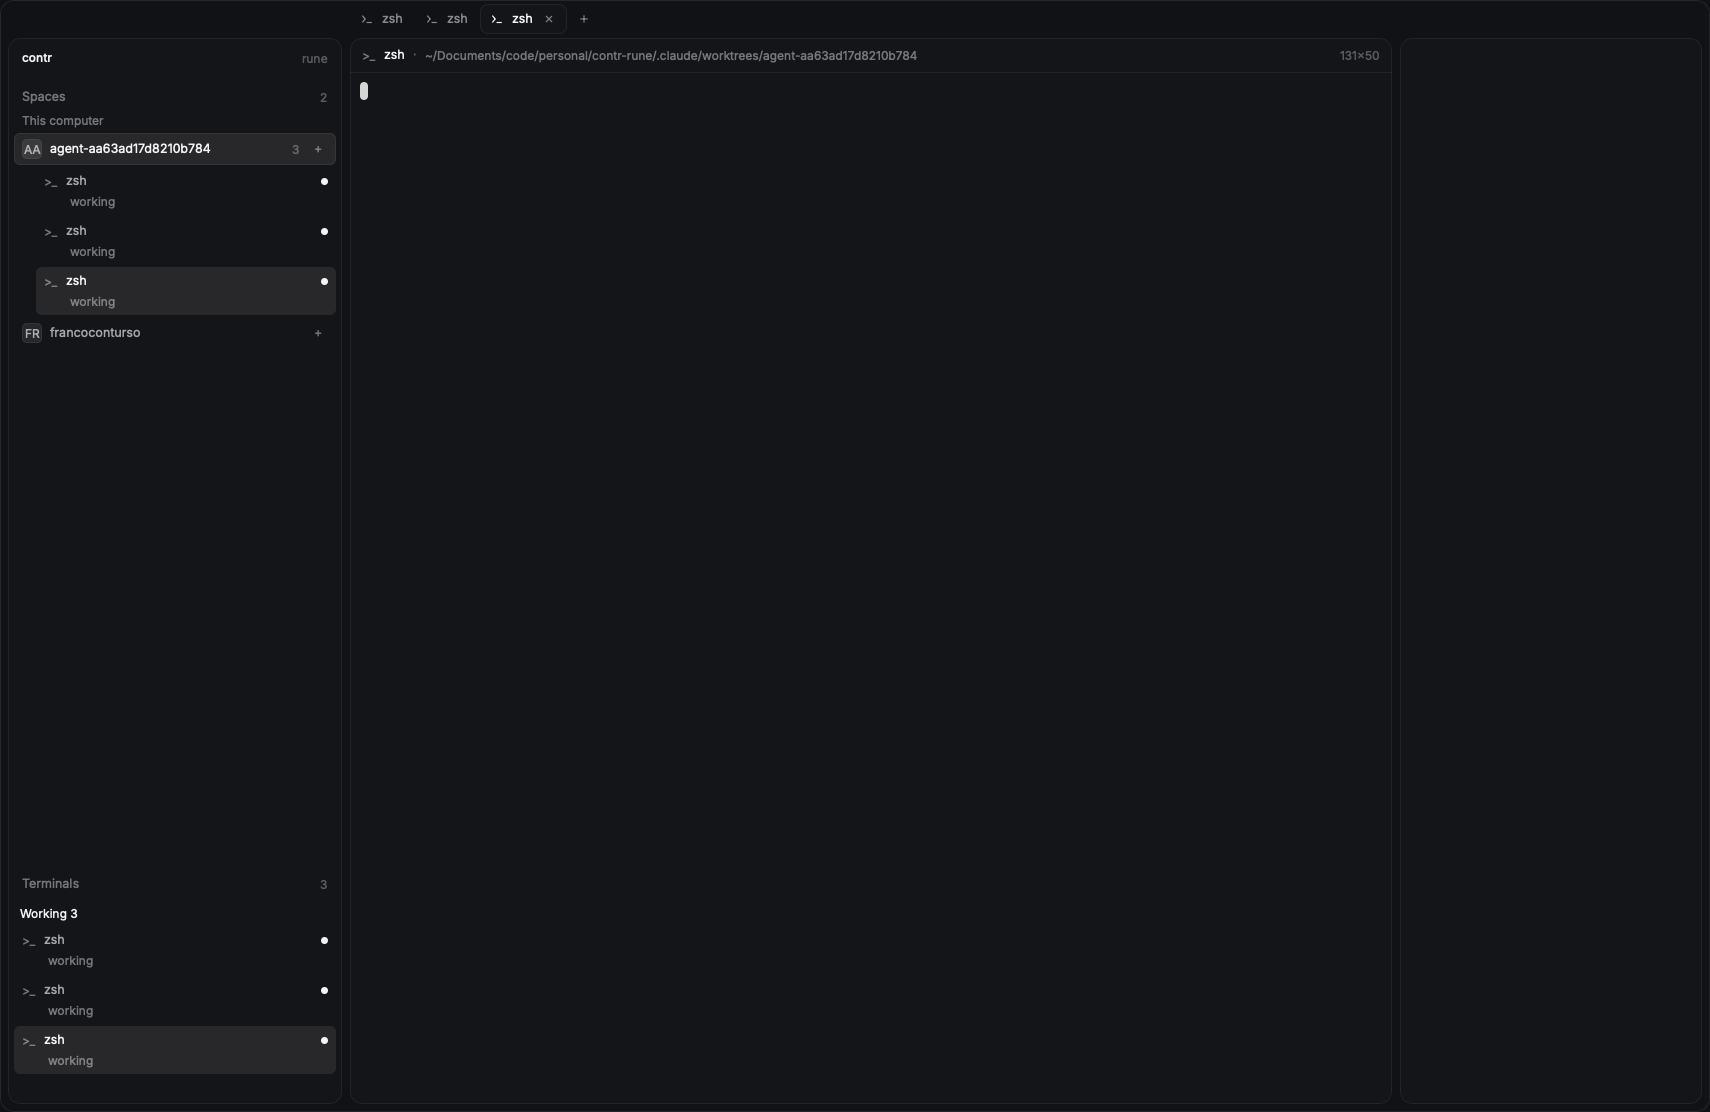
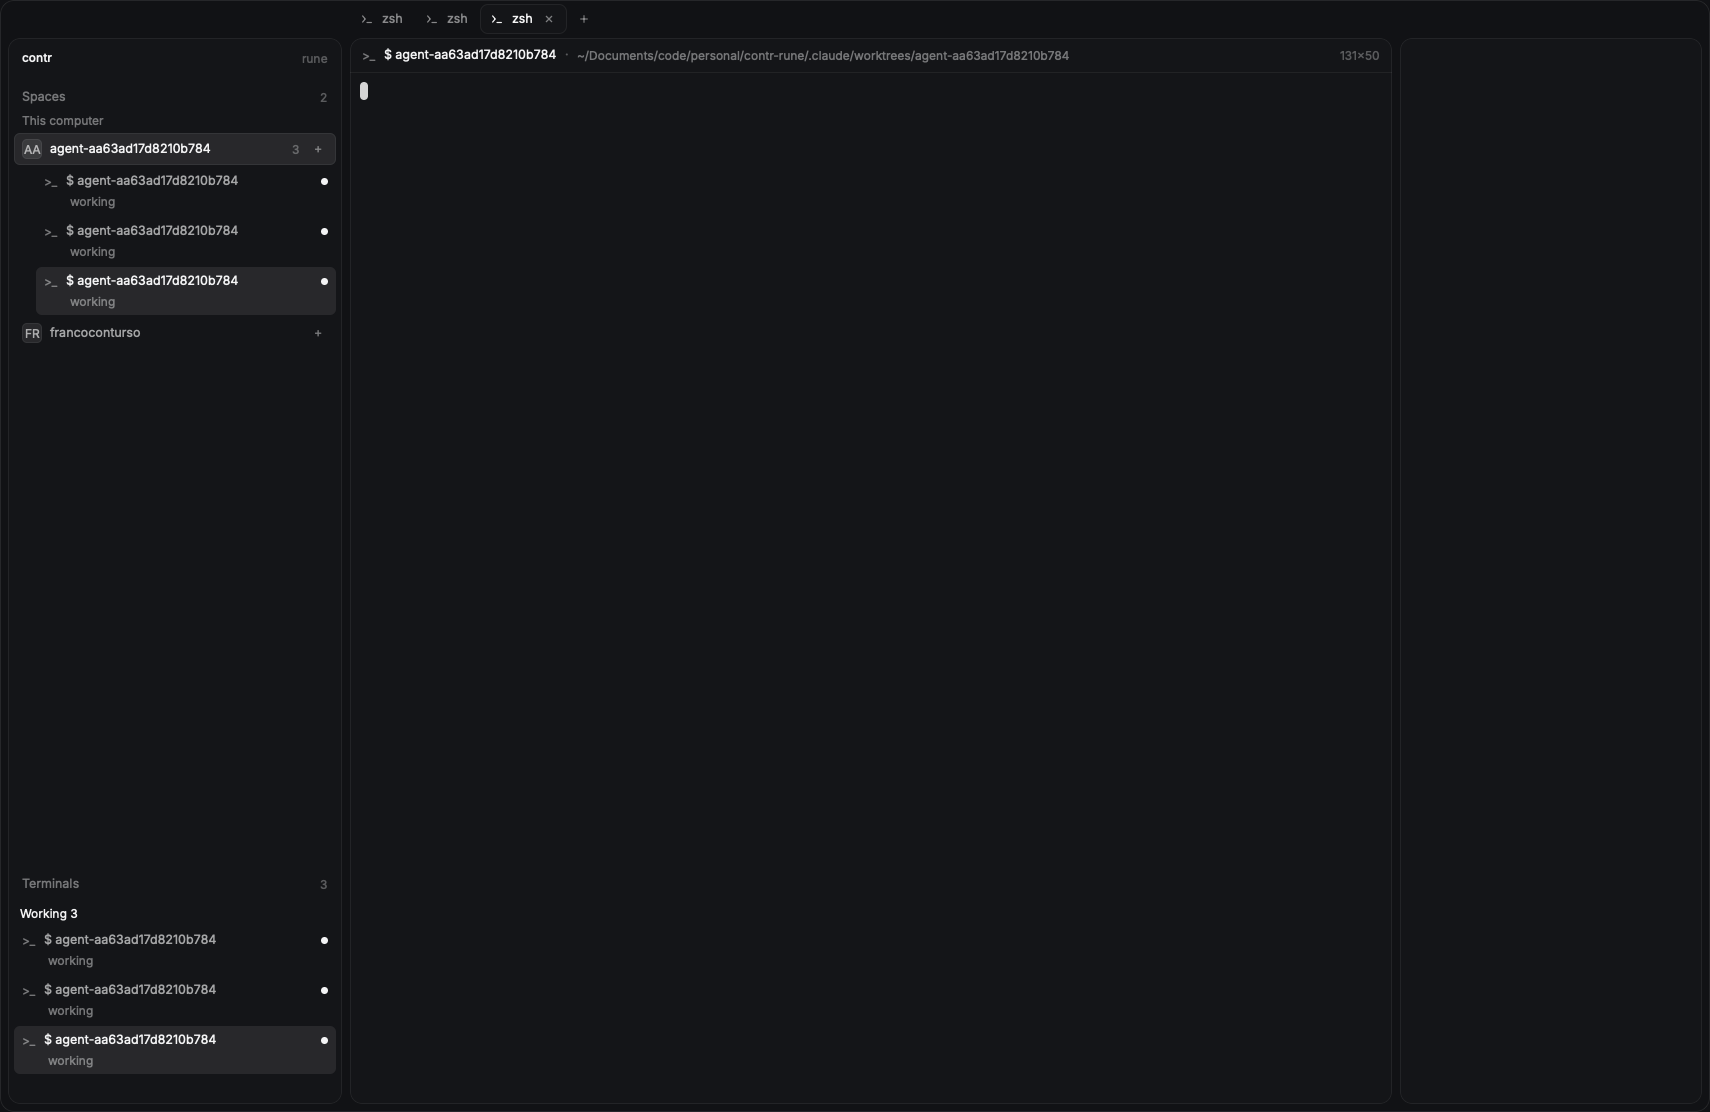
Part 2 fixes: selected-only close, tab label split from sidebar, more tests

diff --git a/tests/tabs.rs b/tests/tabs.rs
@@ -95,11 +95,58 @@ fn plus_opens_a_tab() {
 }
 
 #[test]
-fn hover_shows_close_on_an_unselected_tab() {
+fn hover_does_not_move_tabs_or_show_close() {
+    let before = run("hover-before", r#"[{"t": 0.5, "type": "mark", "name": "idle"}]"#);
     let els = run("hover", r#"[{"t": 0.5, "type": "move", "key": "tab-0"}]"#);
-    assert!(find(&els, "tab-0-close").is_some(), "hovered tab shows its close box");
-    assert!(find(&els, "tab-1-close").is_none());
-    assert!(find(&els, "tab-2-close").is_some(), "selected tab keeps it");
+    assert!(find(&els, "tab-0-close").is_none(), "only the selected tab has a close box");
+    assert!(find(&els, "tab-2-close").is_some());
+    for k in ["tab-0", "tab-1", "tab-2", "tab-new"] {
+        assert_eq!(rect(&els, k), rect(&before, k), "{k} does not move on hover");
+    }
+}
+
+#[test]
+fn selected_tab_has_the_panel_fill_and_line() {
+    let els = run("fill", r#"[{"t": 0.5, "type": "mark", "name": "idle"}]"#);
+    // `panel` is rgba(20,21,24,.85).
+    assert_eq!(find(&els, "tab-2").unwrap()["fill"], "#141518d9");
+    assert_eq!(find(&els, "tab-0").unwrap()["fill"], "#00000000", "unselected tab has no fill");
+    assert_eq!(find(&els, "tab-1").unwrap()["fill"], "#00000000");
+}
+
+/// The tree has no borders, so read the snapshot: the selected tab's top edge row (1 px
+/// `panel-line`, white at 6.5%) is brighter than the fill just inside it.
+#[test]
+fn selected_tab_has_the_inset_line() {
+    let dir = std::env::temp_dir().join(format!("contr-tabs-snap-{}", std::process::id()));
+    std::fs::create_dir_all(&dir).unwrap();
+    let (snap, tree) = (dir.join("snap.png"), dir.join("tree.json"));
+    let out = Command::new(env!("CARGO_BIN_EXE_contr-rune"))
+        .args(["--size", "1710x1112", "--scale", "1", "--scene", "three-tabs", "--at", "1", "--snap"])
+        .arg(&snap)
+        .arg("--tree")
+        .arg(&tree)
+        .env("CONTR_PROJECTS", std::env::temp_dir())
+        .output()
+        .unwrap();
+    assert!(out.status.success(), "{}", String::from_utf8_lossy(&out.stderr));
+    let t: Value = serde_json::from_str(&std::fs::read_to_string(&tree).unwrap()).unwrap();
+    let els = t["elements"].as_array().unwrap().clone();
+    let r = rect(&els, "tab-2");
+    let decoder = png::Decoder::new(std::fs::File::open(&snap).unwrap());
+    let mut reader = decoder.read_info().unwrap();
+    let mut buf = vec![0; reader.output_buffer_size()];
+    let info = reader.next_frame(&mut buf).unwrap();
+    let ch = info.color_type.samples();
+    // A column in the tab's right padding, clear of text and icons.
+    let x = (r[0] + r[2] - 24.0) as usize;
+    let lum = |y: usize| {
+        let i = (y * info.width as usize + x) * ch;
+        buf[i] as u32 + buf[i + 1] as u32 + buf[i + 2] as u32
+    };
+    let (edge, inside) = (lum(r[1] as usize), lum(r[1] as usize + 3));
+    std::fs::remove_dir_all(&dir).unwrap();
+    assert!(edge > inside + 15, "top edge {edge} should be brighter than the fill {inside}");
 }
 
 #[test]
@@ -119,6 +166,22 @@ fn ctrl_tab_cycles_tabs() {
     assert_eq!(selected_tab(&els), 0, "from the last tab, Ctrl+Tab wraps to the first");
     let els = run("cycle-back", r#"[{"t": 0.5, "type": "key", "name": "Tab", "ctrl": true, "shift": true}]"#);
     assert_eq!(selected_tab(&els), 1);
+}
+
+#[test]
+fn ctrl_page_keys_cycle_tabs() {
+    // The scene ends on the last tab: PageDown wraps to the first, PageUp goes back one.
+    let els = run("pgdn", r#"[{"t": 0.5, "type": "key", "name": "PageDown", "ctrl": true}]"#);
+    assert_eq!(selected_tab(&els), 0);
+    let els = run("pgup", r#"[{"t": 0.5, "type": "key", "name": "PageUp", "ctrl": true}]"#);
+    assert_eq!(selected_tab(&els), 1);
+    let els = run(
+        "pgdn-pgup",
+        r#"[{"t": 0.5, "type": "key", "name": "PageDown", "ctrl": true},
+            {"t": 1.0, "type": "key", "name": "PageDown", "ctrl": true},
+            {"t": 1.5, "type": "key", "name": "PageUp", "ctrl": true}]"#,
+    );
+    assert_eq!(selected_tab(&els), 0, "0 -> 1 -> 0");
 }
 
 #[test]

diff --git a/src/session.rs b/src/session.rs
@@ -165,28 +165,55 @@ impl Session {
         self.dirty.store(true, Ordering::Release);
     }
 
-    /// The tab label: the shell's OSC title, else the shell's name ("zsh").
+    /// The tab label: the program's title (shell OSC title), else the shell's name ("zsh").
+    pub fn tab_label(&self) -> String {
+        label_from(self.title.lock().unwrap().as_deref(), shell_name())
+    }
+
+    /// The sidebar and terminal-header label: the shell's OSC title, else `$ <folder>`. Parts 3
+    /// and 5 replace it.
     pub fn label(&self) -> String {
-        label_from(self.title.lock().unwrap().as_deref(), &shell_name())
+        if let Some(t) = self.title.lock().unwrap().as_ref().filter(|t| !t.trim().is_empty()) {
+            // Shells set `user@host:~/a/b`; the sidebar only needs `$ b`.
+            let t = t.trim();
+            let path = match t.split_once(':') {
+                Some((who, rest)) if who.contains('@') => rest.trim(),
+                _ => t,
+            };
+            if path.starts_with('~') || path.starts_with('/') {
+                let last = path.trim_end_matches('/').rsplit('/').next().filter(|s| !s.is_empty()).unwrap_or(path);
+                return format!("$ {last}");
+            }
+            return t.to_string();
+        }
+        let folder = self.cwd.file_name().map(|f| f.to_string_lossy().into_owned()).unwrap_or_else(|| "/".into());
+        format!("$ {folder}")
     }
 }
 
-/// The default shell's name, from `$SHELL`.
-fn shell_name() -> String {
-    let shell = std::env::var("SHELL").unwrap_or_default();
-    shell.rsplit('/').next().filter(|n| !n.is_empty()).unwrap_or("shell").to_string()
+/// The default shell's name, from `$SHELL` (read once).
+fn shell_name() -> &'static str {
+    static NAME: std::sync::OnceLock<String> = std::sync::OnceLock::new();
+    NAME.get_or_init(|| {
+        let shell = std::env::var("SHELL").unwrap_or_default();
+        shell.rsplit('/').next().filter(|n| !n.is_empty()).unwrap_or("shell").to_string()
+    })
 }
 
 /// A tab label from the shell's OSC title: `go test ./...` stays as is; `user@host:~/a/b` (what
-/// shells set at the prompt) shortens to `b`; no title falls back to the shell's name.
+/// shells set at the prompt) shortens to `b`; control characters are dropped; no title falls back
+/// to the shell's name.
 fn label_from(title: Option<&str>, shell: &str) -> String {
-    let Some(t) = title.map(str::trim).filter(|t| !t.is_empty()) else { return shell.to_string() };
+    let clean: String = title.unwrap_or("").chars().filter(|c| !c.is_control()).collect();
+    let t = clean.trim();
+    if t.is_empty() { return shell.to_string(); }
     let path = match t.split_once(':') {
         Some((who, rest)) if who.contains('@') => rest.trim(),
         _ => t,
     };
     if path.starts_with('~') || path.starts_with('/') {
-        return path.trim_end_matches('/').rsplit('/').next().filter(|s| !s.is_empty()).unwrap_or(path).to_string();
+        let last = path.trim_end_matches('/').rsplit('/').next().unwrap_or("");
+        return if !last.is_empty() { last.to_string() } else { "/".to_string() };
     }
     t.to_string()
 }
@@ -208,5 +235,14 @@ mod tests {
         assert_eq!(label_from(Some("me@host:~/code/contr"), "zsh"), "contr");
         assert_eq!(label_from(Some("~/code/"), "zsh"), "code");
         assert_eq!(label_from(Some("/"), "zsh"), "/");
+        assert_eq!(label_from(Some("me@host:~"), "zsh"), "~");
+        assert_eq!(label_from(Some("user@host://"), "zsh"), "/");
+    }
+
+    #[test]
+    fn label_drops_control_characters() {
+        assert_eq!(label_from(Some("go\x07 test\x1b"), "zsh"), "go test");
+        assert_eq!(label_from(Some("\x07\x1b"), "zsh"), "zsh");
+        assert_eq!(label_from(Some(""), "zsh"), "zsh");
     }
 }

diff --git a/src/main.rs b/src/main.rs
@@ -56,8 +56,6 @@ struct App {
     size: Size,
     wheel: f32,
     statuses: Vec<(u64, Status)>,
-    /// The tab under the pointer: its `×` shows.
-    hovered_tab: Option<u64>,
     focused: bool,
     error: Option<String>,
 }
@@ -94,7 +92,6 @@ fn init() -> App {
         size: Size { cols: 100, rows: 30 },
         wheel: 0.0,
         statuses: Vec::new(),
-        hovered_tab: None,
         focused: true,
         error: None,
     }
@@ -455,21 +452,14 @@ fn title_bar(s: &App) -> El {
         let id = t.session.id;
         let selected = s.active == Some(id);
         let ink = if selected { c.ink_100 } else { c.ink_50 };
-        let mut tab = row().key(format!("tab-{i}")).h(ROW_HEIGHT).px(SPACE_10).radius(RADIUS_8).gap(SPACE_8).items_center()
+        let mut tab = row().key(format!("tab-{i}")).h(TAB_HEIGHT).px(SPACE_10).radius(RADIUS_8).gap(SPACE_8).items_center()
             .max_w(TAB_MAX_WIDTH).min_w(0.0).shrink()
-            .role("tab").label(t.session.label()).checked(selected)
+            .role("tab").label(t.session.tab_label()).checked(selected)
             .hover(c.hover)
-            .on_hover_change(move |s: &mut App, inside, _tx| {
-                if inside {
-                    s.hovered_tab = Some(id);
-                } else if s.hovered_tab == Some(id) {
-                    s.hovered_tab = None;
-                }
-            })
             .on_press(move |s: &mut App| s.select_tab(id))
             .child(icon(&icons::PROMPT, 14.0).color(ink))
-            .child(label(t.session.label(), ROW_SMALL, ink).truncate().shrink().min_w(0.0));
-        if selected || s.hovered_tab == Some(id) {
+            .child(label(t.session.tab_label(), ROW_SMALL, ink).truncate().shrink().min_w(0.0));
+        if selected {
             tab = tab.child(
                 el().key(format!("tab-{i}-close")).size(16.0, 16.0).radius(RADIUS_4).center().hover_group().hover(c.press)
                     .role("button").label("Close tab")

diff --git a/src/theme.rs b/src/theme.rs
@@ -195,6 +195,7 @@ pub const FILES_WIDTH: f32 = 302.0;
 pub const ROW_HEIGHT: f32 = 30.0;
 pub const FILE_ROW_HEIGHT: f32 = 26.0;
 pub const ICON_BUTTON: f32 = 28.0;
+pub const TAB_HEIGHT: f32 = 30.0;
 pub const TAB_MAX_WIDTH: f32 = 180.0;
 pub const NOTCH_HEIGHT: f32 = 30.0;
 pub const NOTCH_OPEN_WIDTH: f32 = 600.0;
